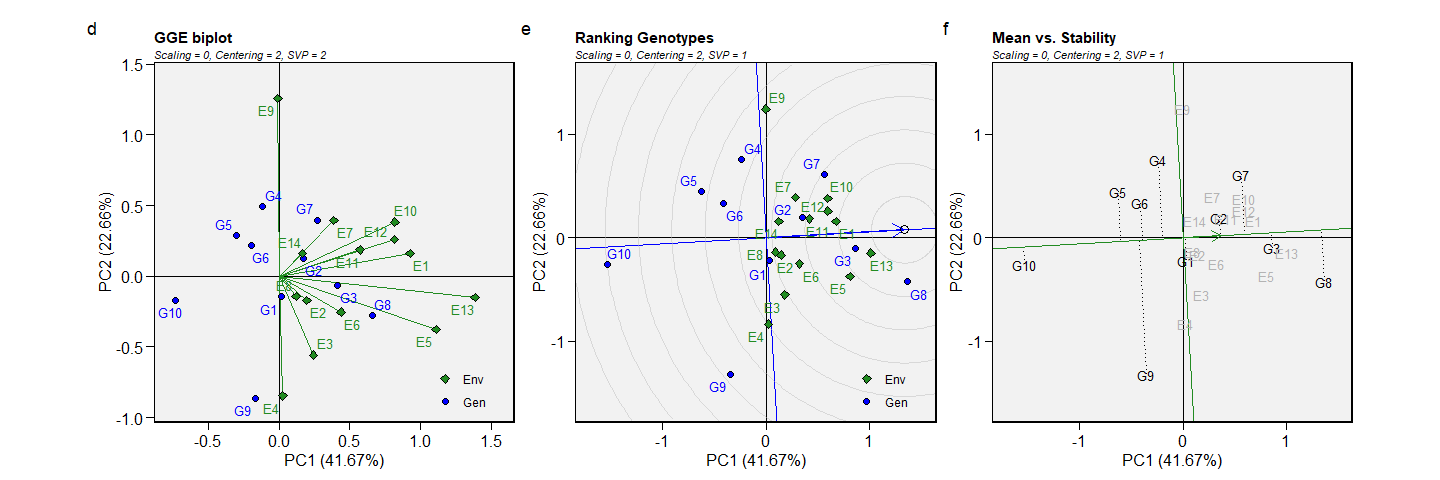
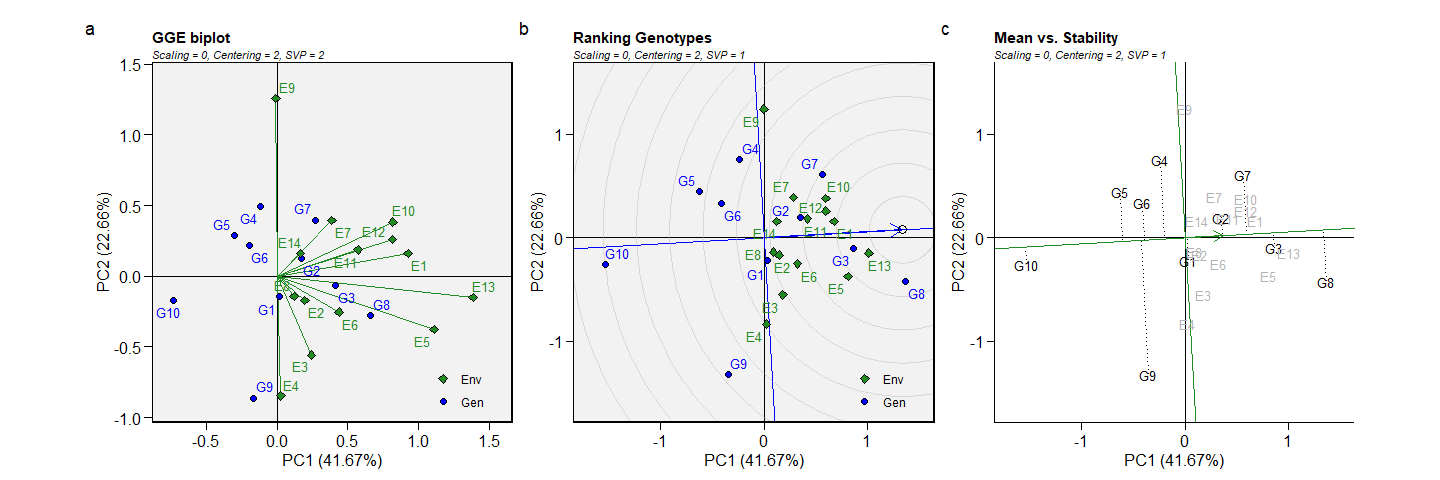
update plot_scores()

diff --git a/README.md b/README.md
@@ -103,16 +103,15 @@ on two variables assessed in 10 genotypes growing in 14 environments.
 
 ``` r
 library(metan)
-
 inspect(data_ge, plot = TRUE)
-# # A tibble: 5 x 9
-#   Variable Class   Missing Levels Valid_n   Min Median   Max Outlier
-#   <chr>    <chr>   <chr>   <chr>    <int> <dbl>  <dbl> <dbl>   <dbl>
-# 1 ENV      factor  No      14         420 NA     NA    NA         NA
-# 2 GEN      factor  No      10         420 NA     NA    NA         NA
-# 3 REP      factor  No      3          420 NA     NA    NA         NA
-# 4 GY       numeric No      -          420  0.67   2.61  5.09       0
-# 5 HM       numeric No      -          420 38     48    58          0
+# # A tibble: 5 × 10
+#   Variable Class   Missing Levels Valid_n   Min Median   Max Outlier Text 
+#   <chr>    <chr>   <chr>   <chr>    <int> <dbl>  <dbl> <dbl>   <dbl> <lgl>
+# 1 ENV      factor  No      14         420 NA     NA    NA         NA NA   
+# 2 GEN      factor  No      10         420 NA     NA    NA         NA NA   
+# 3 REP      factor  No      3          420 NA     NA    NA         NA NA   
+# 4 GY       numeric No      -          420  0.67   2.61  5.09       0 NA   
+# 5 HM       numeric No      -          420 38     48    58          0 NA
 ```
 
 <img src="man/figures/README-INSPECT-1.png" style="display: block; margin: auto;" />
@@ -122,11 +121,11 @@ outliers, missing values, etc.) consider using
 [`find_outliers()`](https://tiagoolivoto.github.io/metan/reference/find_outliers.html)
 to find possible outliers in the data set or any `metan`’s data
 manipulation tool such as
-[remove\_rows\_na()](https://tiagoolivoto.github.io/metan/reference/utils_na.html)
+[remove_rows_na()](https://tiagoolivoto.github.io/metan/reference/utils_na.html)
 to remove rows with `NA` values,
-[replace\_zero()](https://tiagoolivoto.github.io/metan/reference/utils_na_zero.html)
+[replace_zero()](https://tiagoolivoto.github.io/metan/reference/utils_na_zero.html)
 to replace 0’s with `NA`,
-[as\_factor()](https://tiagoolivoto.github.io/metan/reference/utils_as.html)
+[as_factor()](https://tiagoolivoto.github.io/metan/reference/utils_as.html)
 to convert desired columns to factor,
 [`find_text_in_num()`](https://tiagoolivoto.github.io/metan/reference/utils_num_str.html)
 to find text fragments in columns assumed to be numeric, or even
@@ -143,24 +142,24 @@ using
 
 ``` r
 desc_stat(data_ge2)
-# # A tibble: 15 x 9
-#    variable    cv     max    mean  median     min  sd.amo     se      ci
-#    <chr>    <dbl>   <dbl>   <dbl>   <dbl>   <dbl>   <dbl>  <dbl>   <dbl>
-#  1 CD        7.34  18.6    16.0    16      12.9    1.17   0.0939  0.186 
-#  2 CDED      5.71   0.694   0.586   0.588   0.495  0.0334 0.0027  0.0053
-#  3 CL        7.95  34.7    29.0    28.7    23.5    2.31   0.185   0.365 
-#  4 CW       25.2   38.5    24.8    24.5    11.1    6.26   0.501   0.99  
-#  5 ED        5.58  54.9    49.5    49.9    43.5    2.76   0.221   0.437 
-#  6 EH       21.2    1.88    1.34    1.41    0.752  0.284  0.0228  0.045 
-#  7 EL        8.28  17.9    15.2    15.1    11.5    1.26   0.101   0.199 
-#  8 EP       10.5    0.660   0.537   0.544   0.386  0.0564 0.0045  0.0089
-#  9 KW       18.9  251.    173.    175.    106.    32.8    2.62    5.18  
-# 10 NKE      14.2  697.    512.    509.    332.    72.6    5.82   11.5   
-# 11 NKR      10.7   42      32.2    32      23.2    3.47   0.277   0.548 
-# 12 NR       10.2   21.2    16.1    16      12.4    1.64   0.131   0.259 
-# 13 PERK      2.17  91.8    87.4    87.5    81.2    1.90   0.152   0.300 
-# 14 PH       13.4    3.04    2.48    2.52    1.71   0.334  0.0267  0.0528
-# 15 TKW      13.9  452.    339.    342.    218.    47.1    3.77    7.44
+# # A tibble: 15 × 10
+#    variable    cv     max    mean  median     min  sd.amo     se    ci.t n.valid
+#    <chr>    <dbl>   <dbl>   <dbl>   <dbl>   <dbl>   <dbl>  <dbl>   <dbl>   <dbl>
+#  1 CD        7.34  18.6    16.0    16      12.9    1.17   0.0939  0.186      156
+#  2 CDED      5.71   0.694   0.586   0.588   0.495  0.0334 0.0027  0.0053     156
+#  3 CL        7.95  34.7    29.0    28.7    23.5    2.31   0.185   0.365      156
+#  4 CW       25.2   38.5    24.8    24.5    11.1    6.26   0.501   0.99       156
+#  5 ED        5.58  54.9    49.5    49.9    43.5    2.76   0.221   0.437      156
+#  6 EH       21.2    1.88    1.34    1.41    0.752  0.284  0.0228  0.045      156
+#  7 EL        8.28  17.9    15.2    15.1    11.5    1.26   0.101   0.199      156
+#  8 EP       10.5    0.660   0.537   0.544   0.386  0.0564 0.0045  0.0089     156
+#  9 KW       18.9  251.    173.    175.    106.    32.8    2.62    5.18       156
+# 10 NKE      14.2  697.    512.    509.    332.    72.6    5.82   11.5        156
+# 11 NKR      10.7   42      32.2    32      23.2    3.47   0.277   0.548      156
+# 12 NR       10.2   21.2    16.1    16      12.4    1.64   0.131   0.259      156
+# 13 PERK      2.17  91.8    87.4    87.5    81.2    1.90   0.152   0.300      156
+# 14 PH       13.4    3.04    2.48    2.52    1.71   0.334  0.0267  0.0528     156
+# 15 TKW      13.9  452.    339.    342.    218.    47.1    3.77    7.44       156
 ```
 
 # AMMI model
@@ -186,7 +185,7 @@ model <- performs_ammi(data_ge,
 get_model_data(model, "ipca_pval")
 # Class of the model: performs_ammi
 # Variable extracted: Pr(>F)
-# # A tibble: 9 x 4
+# # A tibble: 9 × 4
 #   PC       DF     GY     HM
 #   <chr> <dbl>  <dbl>  <dbl>
 # 1 PC1      21 0      0     
@@ -215,15 +214,15 @@ first variable of the model. To choose another variable use the argument
 ``` r
 a <- plot_scores(model)
 b <- plot_scores(model,
-                 type = 2,
-                 polygon = TRUE,
-                 col.env = "gray70",
-                 col.segm.env = "gray70",
-                 col.gen = transparent_color(),
-                 highlight = c("G1", "G2"),
-                 axis.expand = 1.5)
-c <- plot_scores(model, type = 4)
-arrange_ggplot(a, b, c, tag_levels = "a", nrow = 1)
+                 type = 2, # AMMI 2 biplot
+                 polygon = TRUE, # show a polygon
+                 highlight = c("G4", "G5", "G6"), #highlight genotypes
+                 col.alpha.env = 0.5, # alpha for environments
+                 col.alpha.gen = 0, # remove the other genotypes
+                 col.env = "gray", # color for environment point
+                 col.segm.env = "gray", # color for environment segment
+                 plot_theme = theme_metan_minimal()) # theme
+arrange_ggplot(a, b, tag_levels = "a")
 ```
 
 ![](man/figures/README-AMMI-1.png)<!-- -->
@@ -239,14 +238,15 @@ vignette](https://tiagoolivoto.github.io/metan/articles/vignettes_gge.html).
 model <- gge(data_ge, ENV, GEN, GY)
 model2 <- gge(data_ge, ENV, GEN, GY, svp = "genotype")
 model3 <- gge(data_ge, ENV, GEN, GY, svp = "symmetrical")
-d <- plot(model)
-e <- plot(model2, type = 8)
-f <- plot(model2,
+a <- plot(model)
+b <- plot(model2, type = 8)
+c <- plot(model2,
           type = 2,
           col.gen = "black",
           col.env = "gray70",
-          axis.expand = 1.5)
-arrange_ggplot(d, e, f, tag_levels = list(c("d", "e", "f")), nrow = 1)
+          axis.expand = 1.5,
+          plot_theme = theme_metan_minimal())
+arrange_ggplot(a, b, c, tag_levels = "a")
 ```
 
 ![](man/figures/README-GGE-1.png)<!-- -->
@@ -255,7 +255,7 @@ arrange_ggplot(d, e, f, tag_levels = list(c("d", "e", "f")), nrow = 1)
 
 Linear-mixed effect models to predict the response variable in METs are
 fitted using the function
-[gamem\_met()](https://tiagoolivoto.github.io/metan/reference/gamem_met.html).
+[gamem_met()](https://tiagoolivoto.github.io/metan/reference/gamem_met.html).
 Here we will obtain the predicted means for genotypes in the variables
 `GY` and `HM`. For more details, see the [complete
 vignette](https://tiagoolivoto.github.io/metan/articles/vignettes_blup.html).
@@ -285,7 +285,7 @@ model2 <-
 get_model_data(model2, what = "vcomp")
 # Class of the model: waasb
 # Variable extracted: vcomp
-# # A tibble: 3 x 3
+# # A tibble: 3 × 3
 #   Group        GY    HM
 #   <chr>     <dbl> <dbl>
 # 1 GEN      0.0280 0.490
@@ -299,12 +299,12 @@ To produce a plot with the predicted means, use the function
 [`plot_blup()`](https://tiagoolivoto.github.io/metan/reference/plot_blup.html).
 
 ``` r
-g <- plot_blup(model2)
-h <- plot_blup(model2,
+a <- plot_blup(model2)
+b <- plot_blup(model2,
                prob = 0.2,
                col.shape = c("gray20", "gray80"),
                invert = TRUE)
-arrange_ggplot(g, h, tag_levels = list(c("g", "h")))
+arrange_ggplot(a, b, tag_levels = "a")
 ```
 
 ![](man/figures/README-BLUP-1.png)<!-- -->
@@ -316,7 +316,7 @@ indexes in `metan` is by using the function
 [`ge_stats()`](https://tiagoolivoto.github.io/metan/reference/ge_stats.html).
 It is a wrapper function around a lot of specific functions for
 stability indexes. To get the results into a *“ready-to-read”* file, use
-[get\_model\_data()](https://tiagoolivoto.github.io/metan/reference/get_model_data.html)
+[get_model_data()](https://tiagoolivoto.github.io/metan/reference/get_model_data.html)
 or its shortcut
 [`gmd()`](https://tiagoolivoto.github.io/metan/reference/get_model_data.html).
 
@@ -326,7 +326,7 @@ stats <- ge_stats(data_ge, ENV, GEN, REP, GY)
 get_model_data(stats)
 # Class of the model: ge_stats
 # Variable extracted: stats
-# # A tibble: 10 x 44
+# # A tibble: 10 × 44
 #    var   GEN       Y    CV   ACV   POLAR   Var Shukla  Wi_g  Wi_f  Wi_u Ecoval
 #    <chr> <chr> <dbl> <dbl> <dbl>   <dbl> <dbl>  <dbl> <dbl> <dbl> <dbl>  <dbl>
 #  1 GY    G1     2.60  35.2  34.1  0.0298 10.9  0.0280  84.4  89.2  81.1  1.22 
@@ -339,7 +339,7 @@ get_model_data(stats)
 #  8 GY    G7     2.74  27.4  28.3 -0.133   7.33 0.122   83.9  77.6  93.4  4.16 
 #  9 GY    G8     3.00  30.4  35.1  0.0531 10.8  0.0712  98.8  90.5 107.   2.57 
 # 10 GY    G9     2.51  42.4  39.4  0.154  14.7  0.167   68.8  68.9  70.3  5.56 
-# # ... with 32 more variables: bij <dbl>, Sij <dbl>, R2 <dbl>, ASTAB <dbl>,
+# # … with 32 more variables: bij <dbl>, Sij <dbl>, R2 <dbl>, ASTAB <dbl>,
 # #   ASI <dbl>, ASV <dbl>, AVAMGE <dbl>, DA <dbl>, DZ <dbl>, EV <dbl>, FA <dbl>,
 # #   MASI <dbl>, MASV <dbl>, SIPC <dbl>, ZA <dbl>, WAAS <dbl>, WAASB <dbl>,
 # #   HMGV <dbl>, RPGV <dbl>, HMRPGV <dbl>, Pi_a <dbl>, Pi_f <dbl>, Pi_u <dbl>,

diff --git a/NEWS.md b/NEWS.md
@@ -15,6 +15,7 @@
 * `plot_waasby()` now accepts objects of class `waas_means`.
 * `get_model_data()` now includes new options `coefs`, and `anova` for objects computed with `ge_reg()`.
 * New argument `max_overlaps` in `plot_scores()` to exclude text labels that overlap too many things.
+* Improve the control over highlighted individuals in `plot_scores()` (shape, alpha, color, and size).
 
 
 # metan 1.16.0
